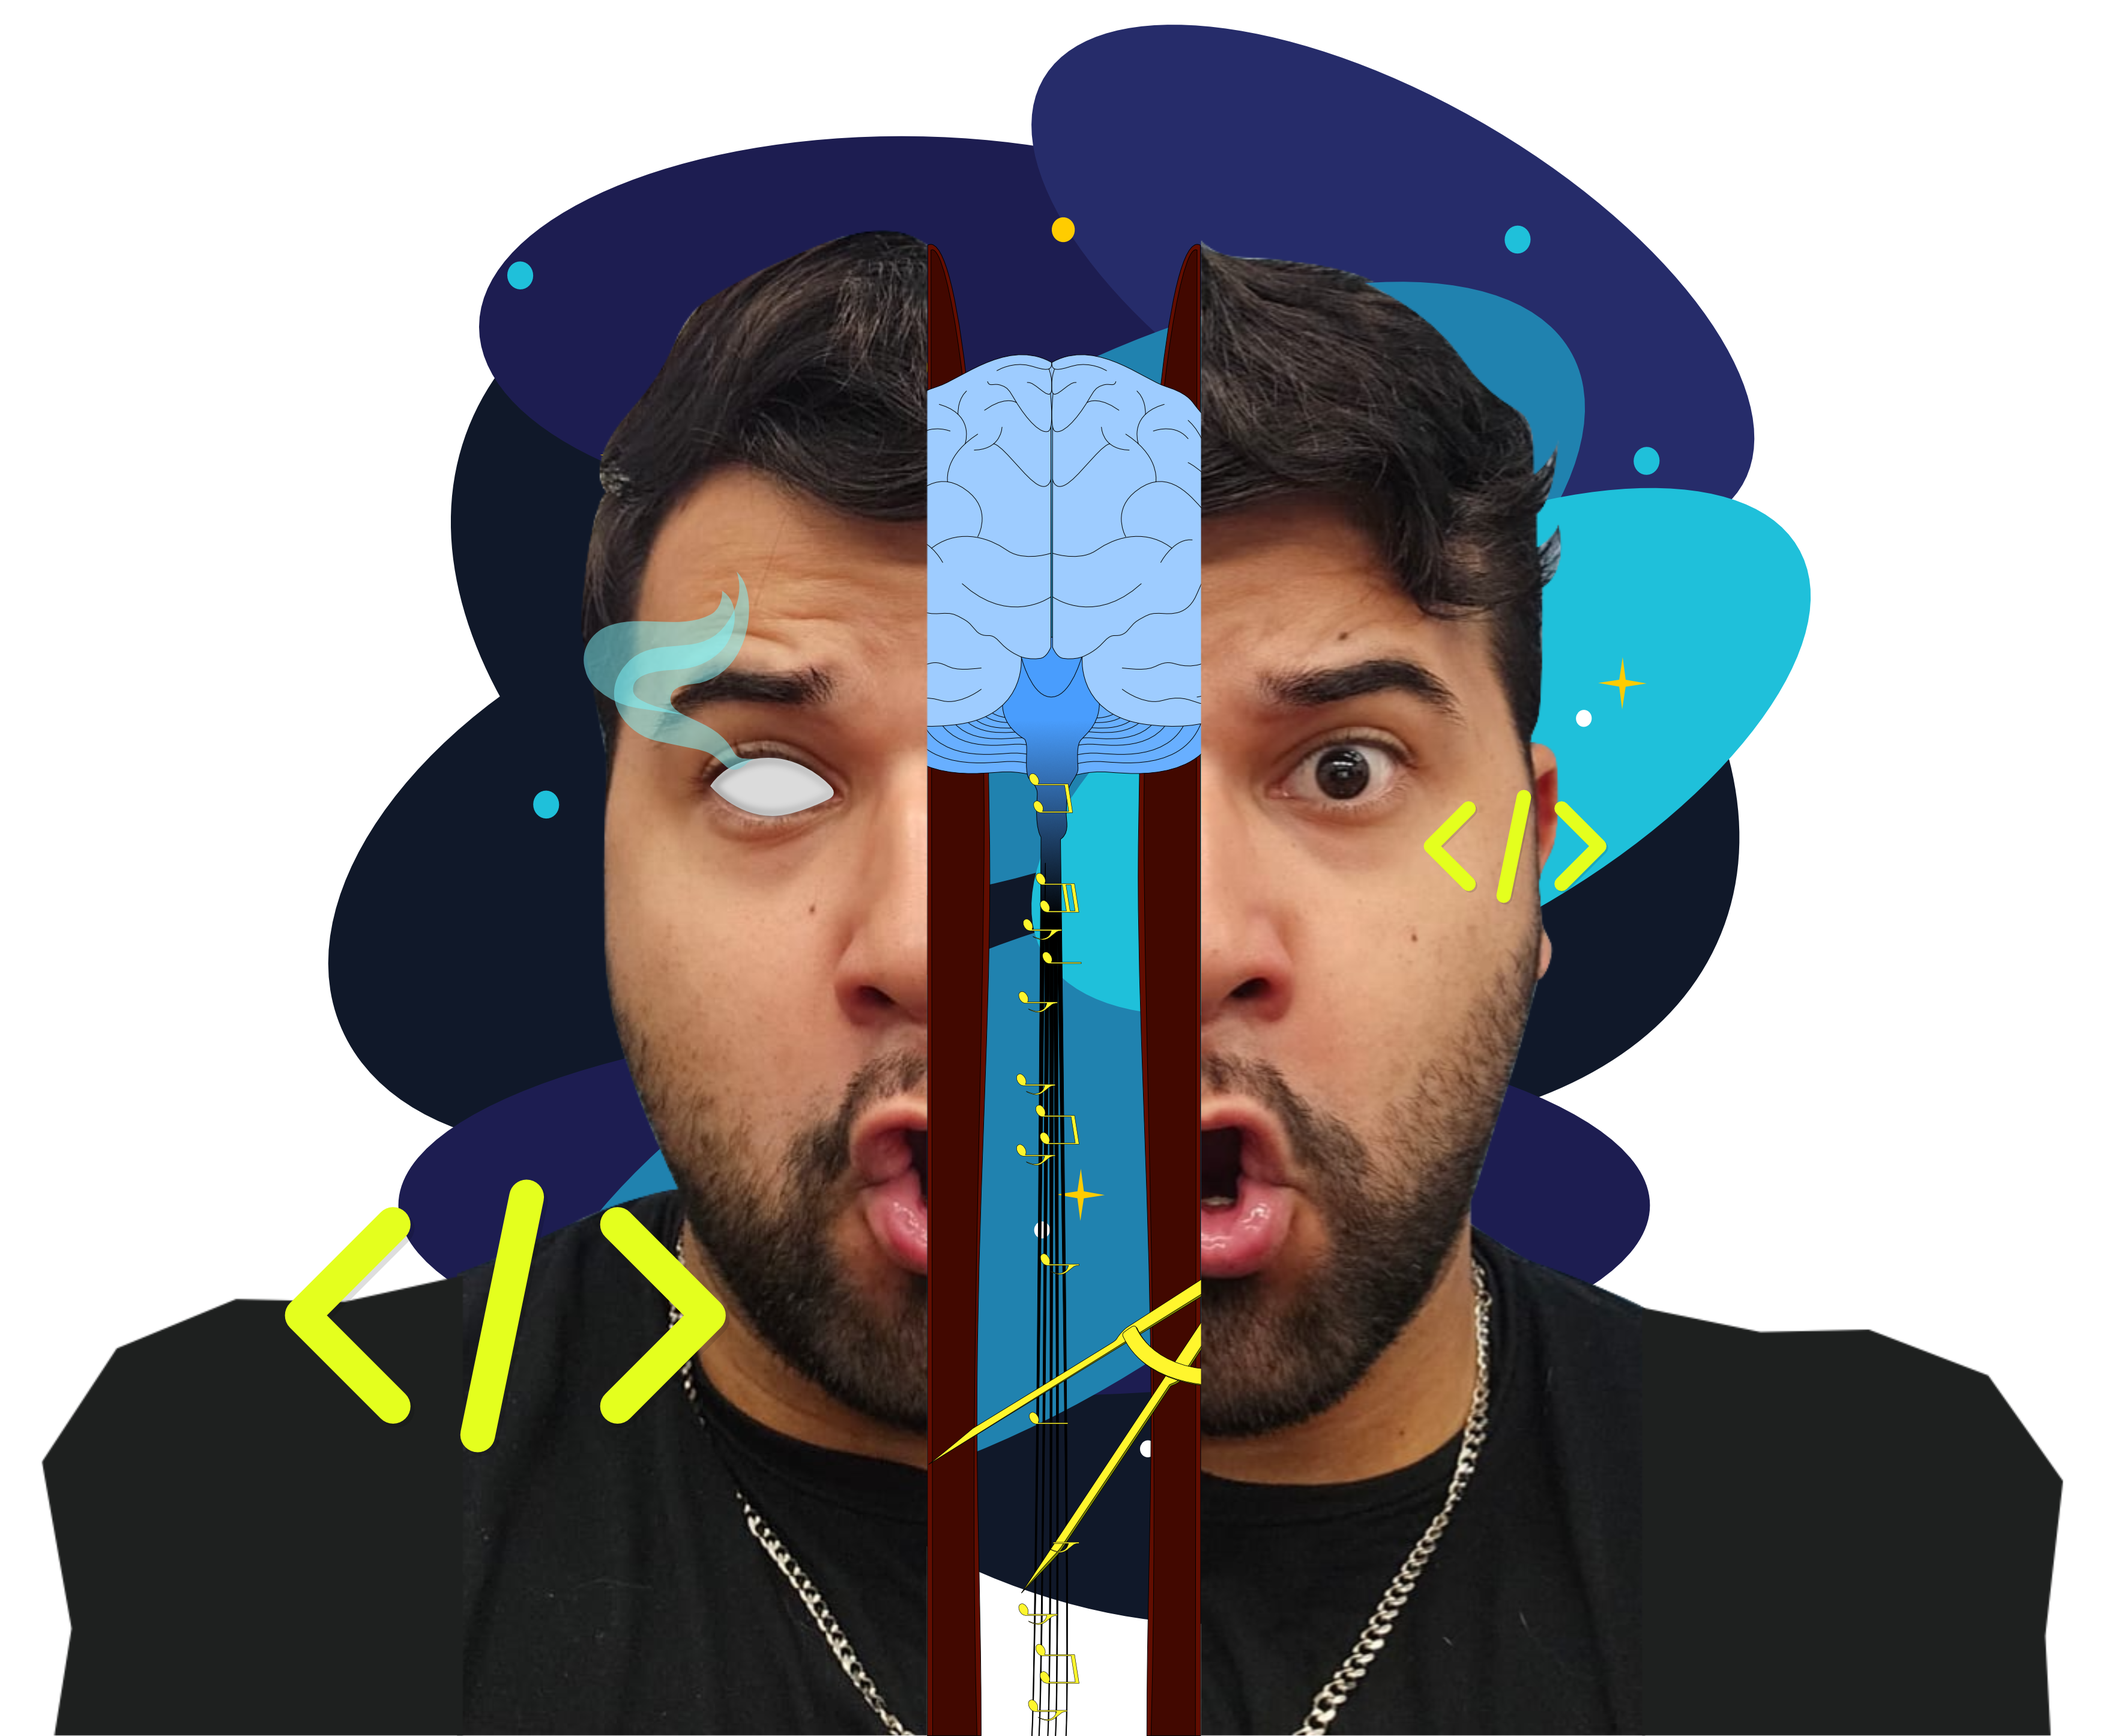
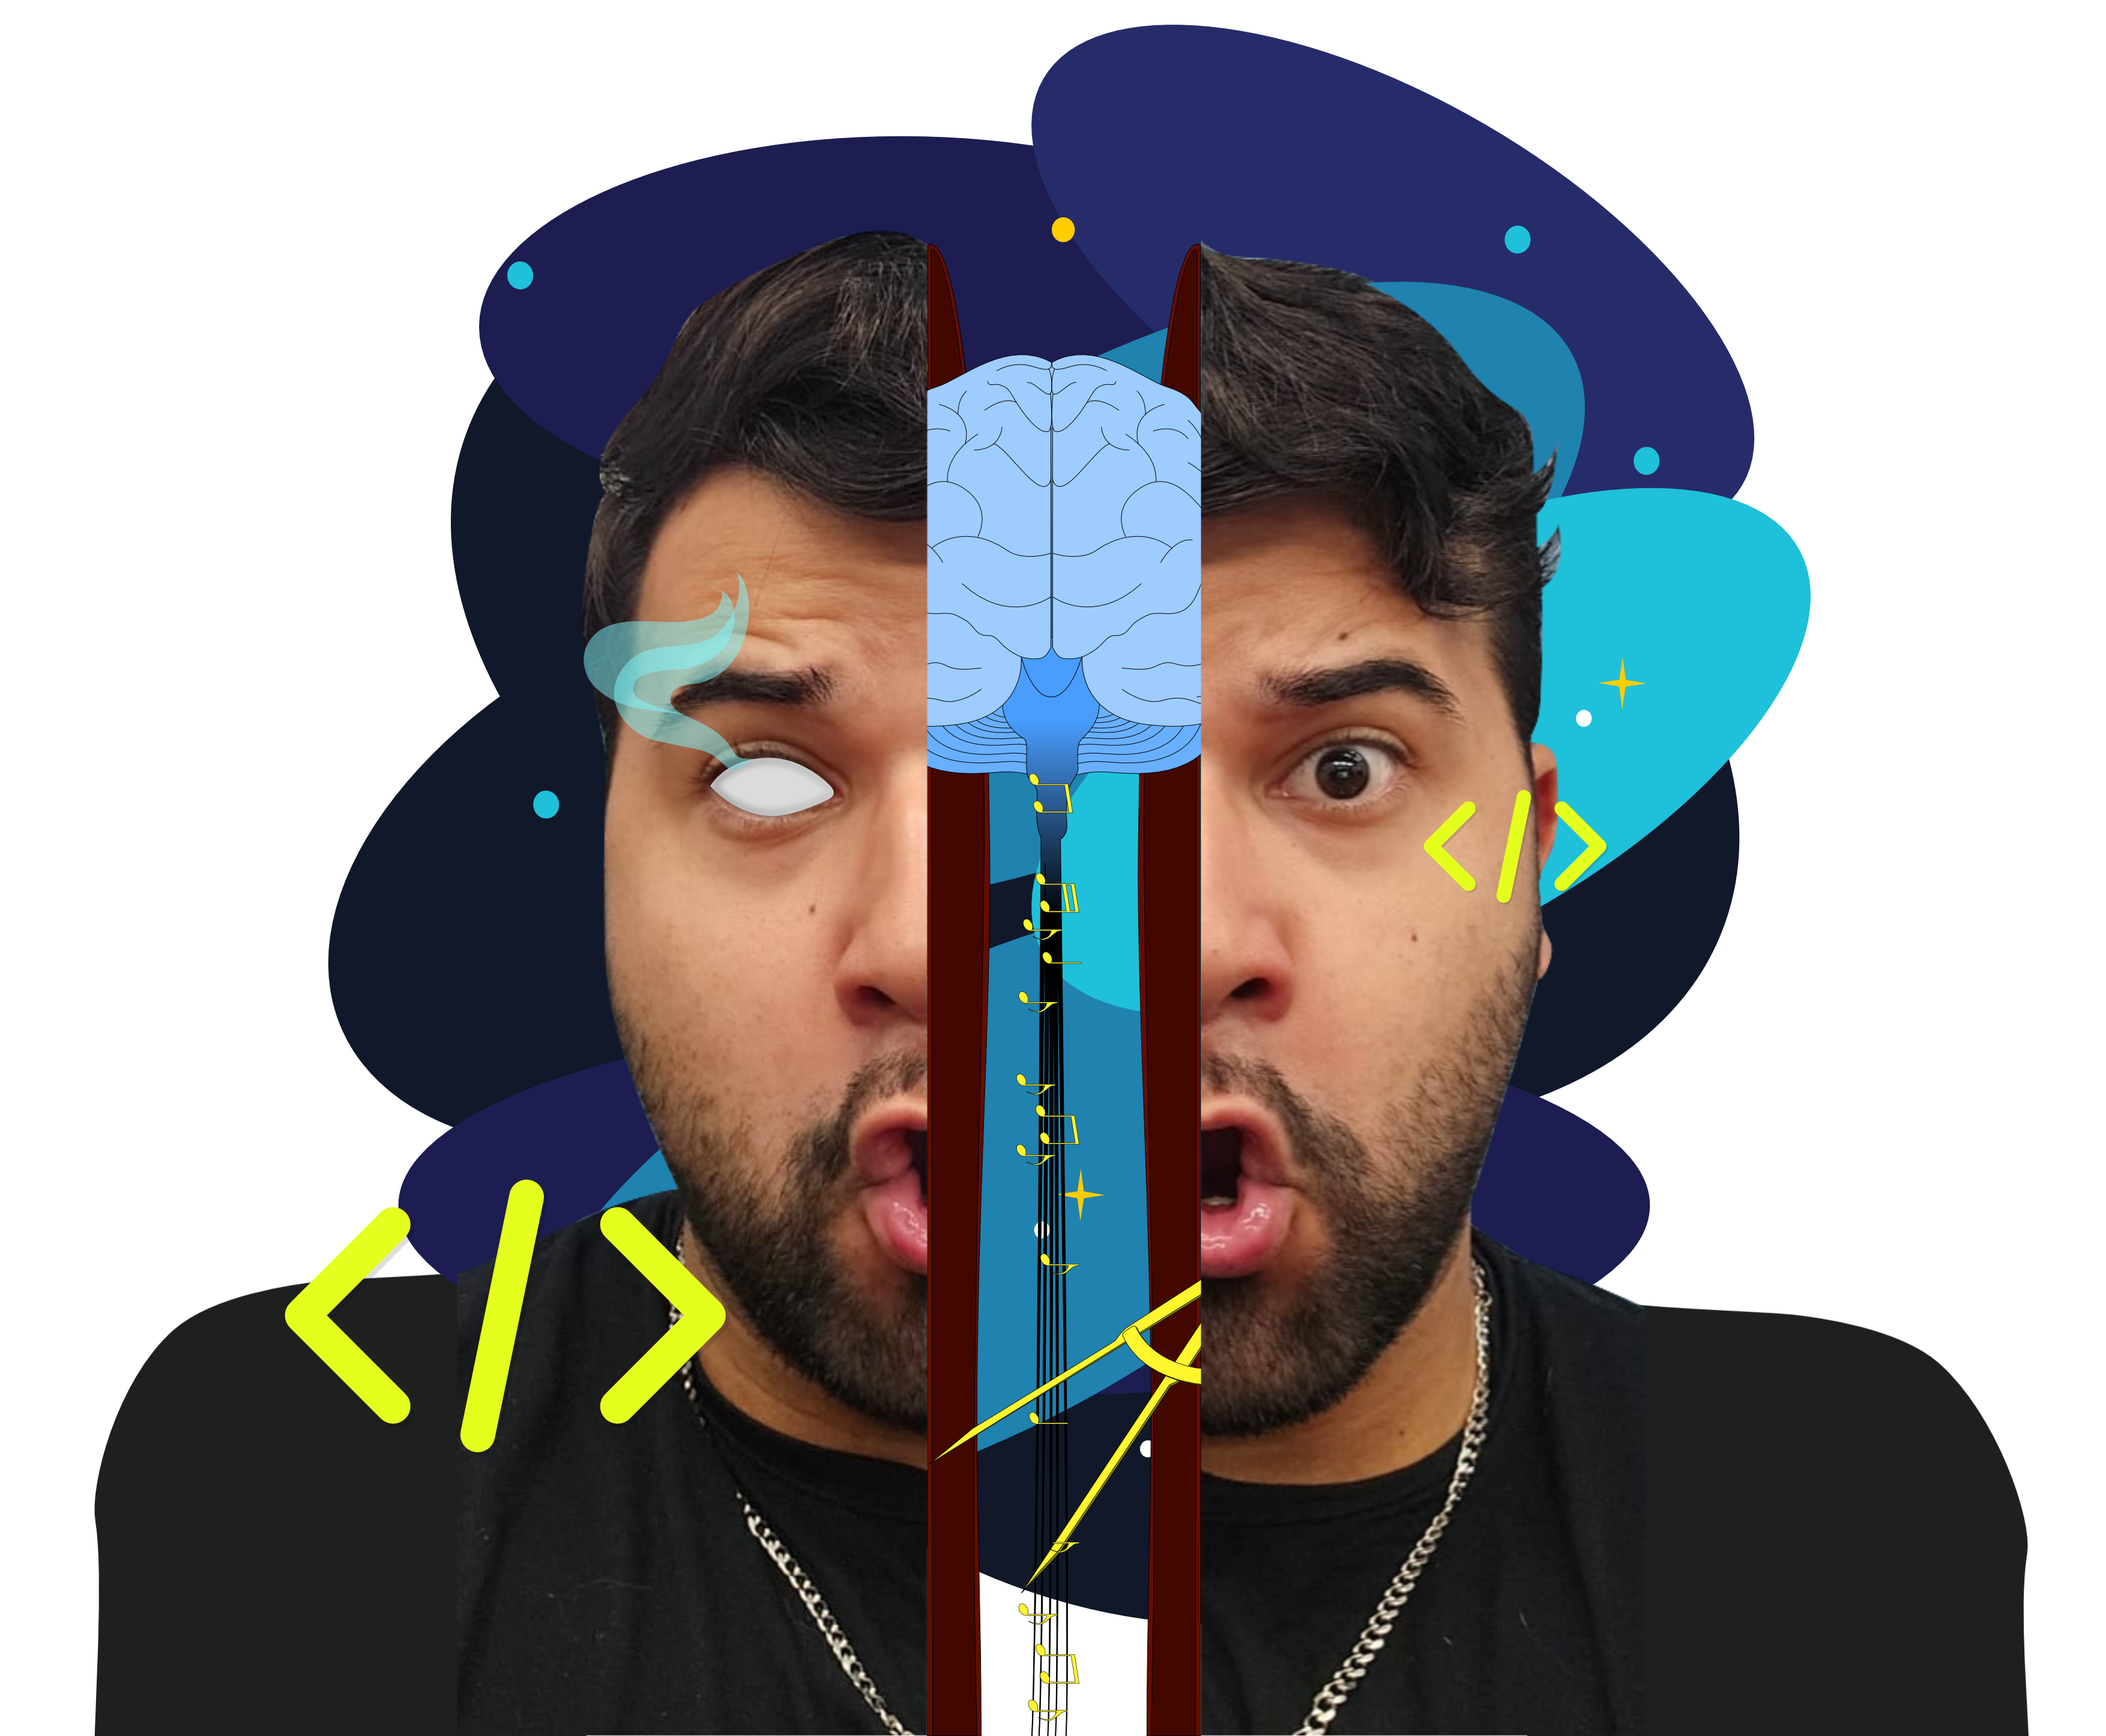
style: Updates suggested questions button | Updates README.md

diff --git a/frontend/src/App.css b/frontend/src/App.css
@@ -1,2 +1,4 @@
 #root{min-height:100vh}.page-shell{max-width:1280px;margin:0 auto;padding:0 7.5%;min-height:100vh;color:#0F21BD}.topbar{height:76px;border-bottom:1px solid #DEF2F855;display:flex;align-items:center;justify-content:space-between;color:#DEF2F8}.brand{display:flex;align-items:center;gap:9px;font-family:Manrope,sans-serif;font-size:17px;font-weight:800;letter-spacing:-.7px;color:#C2F929}.brand-mark{width:27px;height:27px;border-radius:8px;background:#C2F929;color:#0F21BD;display:grid;place-items:center}.brand-light{color:#DEF2F8;font-weight:500}.topbar-note{font:10px 'DM Mono',monospace;color:#DEF2F8;display:flex;align-items:center;gap:8px}.status-dot,.chat-title i{display:inline-block;width:7px;height:7px;border-radius:50%;background:#C2F929}.topbar-divider{color:#DEF2F8}.top-link{font-size:11px;font-weight:600;border:1px solid #C2F929;background:#C2F929;color:#0F21BD;border-radius:6px;padding:9px 12px}.top-link span{margin-left:10px}.chat-layout{min-height:calc(100vh - 124px);padding:34px 0 28px;display:grid;grid-template-columns:1fr 1.08fr;gap:clamp(42px,7vw,96px);align-items:center;max-width:1020px;margin:0 auto}.intro-panel{padding:10px 0}.eyebrow,.modal-kicker,.suggestion-launcher>span,.day-label,.page-footer{font:9px 'DM Mono',monospace;letter-spacing:.11em}.eyebrow{display:flex;align-items:center;gap:10px;color:#C2F929}.eyebrow-line{width:22px;height:1px;background:#C2F929}.hero-portrait{height:290px;margin:4px 0 0;overflow:hidden;display:flex;align-items:center;justify-content:center}.hero-portrait img{display:block;width:100%;height:100%;object-fit:contain;object-position:center bottom}.intro-panel h1{font:800 clamp(40px,5vw,58px)/1.04 Manrope,sans-serif;letter-spacing:-2.5px;color:#0F21BD;background:#DEF2F8;border-radius:15px;padding:18px 22px;margin:-2px 0 14px;position:relative}.intro-panel h1 span{color:#008DD5}.intro-copy{max-width:390px;color:#C2F929;font-size:13px;line-height:1.65;padding-left:5px}.chat-card{background:#fff;border:1px solid #DEF2F8;border-radius:12px;box-shadow:0 18px 55px #08136233;height:min(650px,calc(100vh - 112px));min-height:540px;display:flex;flex-direction:column;overflow:hidden}.chat-header{height:64px;padding:0 18px;display:flex;align-items:center;gap:11px;border-bottom:1px solid #d6edf5;flex-shrink:0}.bot-avatar,.mini-avatar{display:grid;place-items:center;background:#DEF2F8;color:#0F21BD}.bot-avatar{width:34px;height:34px;border-radius:10px;font-size:17px}.chat-title{display:flex;flex-direction:column;gap:3px}.chat-title strong{font-size:11px;color:#0F21BD}.chat-title span{font-size:9px;color:#66849a;display:flex;align-items:center;gap:5px}.chat-title i{width:5px;height:5px}.more-button{margin-left:auto;border:0;background:transparent;color:#7894a3;font-size:21px;letter-spacing:2px}.chat-context{margin:15px 17px 0;padding:10px 12px;border-radius:6px;background:#DEF2F8;color:#356483;font-size:9px;display:flex;align-items:center;gap:8px}.context-icon{color:#008DD5;font-size:14px}.messages{padding:17px 17px 10px;flex:1;overflow:auto;display:flex;flex-direction:column;gap:14px}.day-label{display:flex;align-items:center;gap:9px;justify-content:center;font-size:8px;color:#9ab3c0}.day-label span{width:35px;height:1px;background:#e2f0f4}.message-row{display:flex;align-items:flex-end;gap:8px;max-width:91%}.message-row.user{align-self:flex-end;justify-content:flex-end}.mini-avatar{flex:0 0 auto;width:22px;height:22px;border-radius:7px;font-size:12px;margin-bottom:16px}.message-content{display:flex;flex-direction:column;gap:5px}.bubble{white-space:pre-line;padding:11px 13px;border-radius:10px 10px 10px 3px;background:#DEF2F8;color:#315c79;font-size:10px;line-height:1.65}.bubble a{color:#0F21BD;text-decoration:underline;text-underline-offset:2px;font-weight:600}.bubble a:hover{color:#008DD5}.user .bubble{border-radius:10px 10px 3px 10px;background:#C2F929;color:#0F21BD}.message-time{font-size:8px;color:#8aa5b3}.user .message-time{text-align:right}.typing{display:flex;gap:4px;padding:12px}.typing i{width:4px;height:4px;background:#008DD5;border-radius:50%;animation:typing-bounce .65s ease-in-out infinite;transform-origin:center bottom}.typing i:nth-child(2){animation-delay:.12s}.typing i:nth-child(3){animation-delay:.24s}@keyframes typing-bounce{0%,60%,100%{transform:translateY(0) scale(.85);opacity:.45}30%{transform:translateY(-5px) scale(1.12);opacity:1}}.connection-note{font-size:9px;color:#ad6548;text-align:center}.suggestion-launcher{padding:10px 17px;border-top:1px solid #d6edf5;display:flex;align-items:center;justify-content:space-between}.suggestion-launcher>span{font-size:7px;color:#8aa5b3}.help-button{width:27px;height:27px;border-radius:50%;border:1px solid #008DD5;background:#DEF2F8;color:#0F21BD;font-size:15px;font-weight:700;display:grid;place-items:center;transition:background .18s,transform .18s}.help-button:hover{background:#C2F929;transform:scale(1.08)}.composer{margin:0 13px 8px;padding:5px 5px 5px 13px;height:42px;border:1px solid #9ed7e9;border-radius:7px;display:flex;align-items:center}.composer:focus-within{border-color:#008DD5;box-shadow:0 0 0 3px #008DD522}.composer input{border:0;outline:0;flex:1;min-width:0;font-size:10px;color:#0F21BD;background:transparent}.composer input::placeholder{color:#91a7b1}.composer button{width:29px;height:29px;border:0;border-radius:6px;background:#C2F929;color:#0F21BD;font-size:19px;display:grid;place-items:center}.composer button:disabled{opacity:.55;cursor:default}.chat-footnote{text-align:center;font-size:8px;color:#91a7b1;padding:2px 8px 12px}.page-footer{height:48px;border-top:1px solid #DEF2F855;display:flex;align-items:center;justify-content:space-between;font-size:8px;color:#DEF2F8}.page-footer b{color:#C2F929;font-size:13px;margin-left:5px}.page-footer i{font-style:normal;color:#C2F929;margin:0 5px}.modal-backdrop{position:fixed;inset:0;z-index:20;background:#07124ddd;display:grid;place-items:center;padding:20px;backdrop-filter:blur(5px)}.suggestions-modal{position:relative;width:min(100%,430px);background:#fff;border-radius:16px;padding:30px;box-shadow:0 24px 80px #06104b66;color:#0F21BD}.modal-close{position:absolute;right:15px;top:13px;width:32px;height:32px;border:0;border-radius:50%;background:#DEF2F8;color:#0F21BD;font-size:22px}.modal-kicker{color:#008DD5;font-size:8px}.suggestions-modal h2{font:800 26px/1.15 Manrope,sans-serif;margin:10px 0 7px;color:#0F21BD}.suggestions-modal p{font-size:12px;color:#607f94;margin:0 0 17px}.suggestion-list{display:grid;gap:8px}.suggestion-list button{width:100%;border:1px solid #c7e5ef;background:#f7fcfd;border-radius:8px;padding:12px 13px;text-align:left;color:#123e86;font-size:12px;display:flex;justify-content:space-between;align-items:center;transition:border-color .18s,background .18s}.suggestion-list button:hover{border-color:#008DD5;background:#DEF2F8}.suggestion-list button span{color:#008DD5}@media(max-width:800px){.page-shell{padding:0 28px}.chat-layout{gap:34px}.hero-portrait{height:245px}.intro-panel h1{font-size:45px}.chat-card{height:620px}}@media(max-width:650px){.page-shell{padding:0 18px}.topbar{height:64px}.topbar-note{font-size:8px}.chat-layout{display:flex;flex-direction:column;align-items:stretch;gap:24px;padding:28px 0}.hero-portrait{height:230px}.intro-panel h1{font-size:42px;margin:0 0 12px}.intro-copy{font-size:12px}.chat-card{height:610px;min-height:510px}.page-footer{font-size:7px;gap:5px}.page-footer span:nth-child(2){display:none}.suggestions-modal{padding:27px 20px}}@media(max-width:370px){.topbar-note{display:none}.page-footer span:last-child{font-size:6px}}@media(prefers-reduced-motion:reduce){*,*::before,*::after{scroll-behavior:auto!important;animation-duration:.01ms!important;animation-iteration-count:1!important;transition-duration:.01ms!important}}
 body{background:linear-gradient(112deg,#0F21BD 0%,#2360cf 52%,#42b7ed 100%);background-attachment:fixed}
+
+.suggestion-launcher{justify-content:flex-end}.suggestion-button{display:flex;align-items:center;gap:10px;background:#C2F929;color:#0F21BD;border:0;border-radius:7px;padding:9px 12px;font-size:10px;font-weight:700;cursor:pointer;transition:filter .18s,transform .18s}.suggestion-button:hover{filter:brightness(.96);transform:translateY(-1px)}.suggestion-button span{font-size:13px}

diff --git a/frontend/src/App.tsx b/frontend/src/App.tsx
@@ -102,7 +102,7 @@ function App() {
 
         <section className="chat-card" aria-label="Conversa com AiresBot">
           <div className="chat-header">
-            <div className="bot-avatar"><span>α</span></div>
+            <div className="bot-avatar"><span>a.</span></div>
             <div className="chat-title"><strong>AiresBot</strong><span><i /> online agora</span></div>
             <button className="more-button" aria-label="Mais opções">···</button>
           </div>
@@ -111,15 +111,15 @@ function App() {
             <div className="day-label"><span /> HOJE <span /></div>
             {messages.map((message) => (
               <div className={`message-row ${message.role}`} key={message.id}>
-                {message.role === 'bot' && <div className="mini-avatar">α</div>}
+                {message.role === 'bot' && <div className="mini-avatar">a.</div>}
                 <div className="message-content"><div className="bubble">{message.role === 'bot' ? linkify(message.text) : message.text}</div><span className="message-time">{message.role === 'bot' ? 'AiresBot' : 'Você'} · agora</span></div>
               </div>
             ))}
-            {loading && <div className="message-row bot"><div className="mini-avatar">α</div><div className="bubble typing" role="status" aria-label="AiresBot está digitando"><i /><i /><i /></div></div>}
+            {loading && <div className="message-row bot"><div className="mini-avatar">a.</div><div className="bubble typing" role="status" aria-label="AiresBot está digitando"><i /><i /><i /></div></div>}
             {apiError && <div className="connection-note">A conexão com o backend falhou.</div>}
             <div ref={bottomRef} />
           </div>
-          <div className="suggestion-launcher"><span>PRECISA DE UMA IDEIA?</span><button className="help-button" type="button" aria-label="Abrir perguntas sugeridas" onClick={() => setHelpOpen(true)}>?</button></div>
+          <div className="suggestion-launcher"><button className="suggestion-button" type="button" onClick={() => setHelpOpen(true)}>Perguntas sugeridas <span aria-hidden="true">↗</span></button></div>
           <form className="composer" onSubmit={onSubmit}>
             <input aria-label="Sua mensagem" placeholder="Escreva sua pergunta..." value={input} onChange={(event) => setInput(event.target.value)} onKeyDown={onKeyDown} disabled={loading} />
             <button type="submit" aria-label="Enviar mensagem" disabled={loading || !input.trim()}><span>↑</span></button>
@@ -144,7 +144,7 @@ function App() {
           </section>
         </div>
       )}
-      <footer className="page-footer"><span>© 2026 NÍCOLAS AIRES</span><span>UM PROJETO DE PORTFÓLIO <b>α</b></span><span>REACT <i>·</i> DJANGO REST FRAMEWORK</span></footer>
+      <footer className="page-footer"><span>© 2026 NÍCOLAS AIRES</span><span>UM PROJETO DE PORTFÓLIO <b>a.</b></span><span>REACT <i>·</i> DJANGO REST FRAMEWORK</span></footer>
     </main>
   )
 }

diff --git a/README.md b/README.md
@@ -65,6 +65,9 @@ E retorna uma resposta neste formato:
 ## Próximos passos
 
 - **Autenticação:** planejo implementar autenticação em sessões numa etapa futura.
+- **Persistência de perguntas não respondidas:** planejo implementar um banco de dados para registrar perguntas que não possuem respostas cadastradas, permitindo identificar dúvidas recorrentes e ampliar a cobertura do chatbot.
+- **Painel ADM:** desenvolver uma interface para consultar perguntas pendentes, analisar sua frequência e cadastrar novas respostas sem necessidade de modificar diretamente o código-fonte.
+- **Aprimoramento do mecanismo de busca:** avaliar estruturas de dados estratégicas de correspondência mais eficientes conforme o crescimento da base de regras.
 - **v2 com IA:** mais adiante, pretendo lançar a v2 integrada com IA para ampliar a experiência de conversa.
 
 Esses itens fazem parte do roadmap e ainda não estão disponíveis na versão atual.
